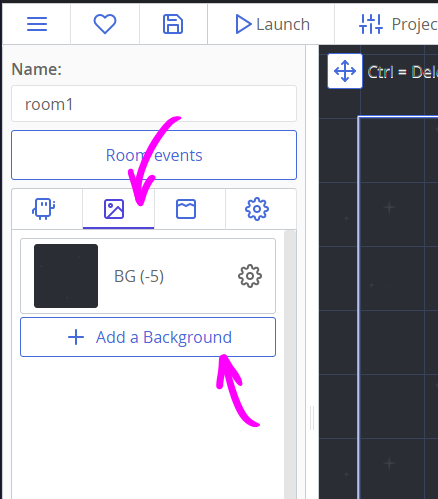
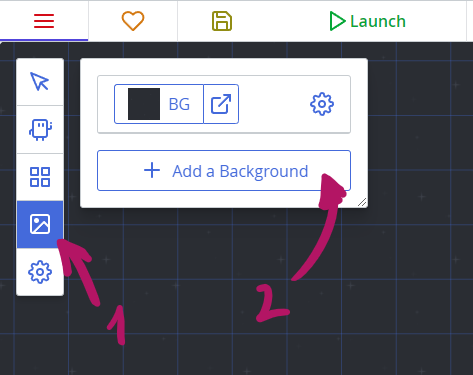
:zap: Update Space Shooter tutorial (new room editor)

diff --git a/docs/tut-making-shooter.md b/docs/tut-making-shooter.md
@@ -64,29 +64,21 @@ Let's place created templates somewhere on the map. To create this map, or Room,
 
 ![](./images/tutSpaceShooter_08.png)
 
-Here we will stop a bit to explain how to use the Room editor. Firstly, we can set up a Room's name and its viewport size.
+Here we will stop a bit to explain how to use the Room editor. The extended explanation can be found [here](/room-editor.html), but right now we will use just a few tools of it. Firstly, we should set up a Room's name and its viewport size in room's properties, by clicking the cog button in the left toolbar.
 
 In ct.js, Rooms are infinite and can pan in any direction. You can place objects inside and outside the viewport.
 
-Then we have Room events. It is a section that defines game logic specifically for this room. You can define UI or level scenario here.
+You can navigate the room by holding the mouse wheel and dragging your mouse. You can change zoom level by mouse wheel, or by changing zoom in the dropdown in the top toolbar. If you feel lost, press the "Reset viewport" menu item in the zoom dropdown to return to (0, 0) coordinates — or just press the `H` key.
 
-Under this button we have a panel with Copies and Backgrounds. We pick a Copy from the according tab and place it to the map by clicking on a large area on the right. To disable adding new copies, select a ghostly cat on the left. You can pan the editor's view by dragging your mouse on the left side when nothing is selected. You can change zoom level by using the zoom slider on the top, or by mouse wheel.
-
-If you feel lost, press the "To center" button to return to (0, 0) coordinates.
-
-You can set a grid by clicking on the button in the bottom right corner. Clicking it again will disable the grid.
-
-Lastly, you can move all the copies in the room at once by clicking a button with a "move" icon in the top left corner.
-
-For now, let's place a player's ship, a hostile one and a couple of asteroids.
+For now, let's place a player's ship, a hostile one and a couple of asteroids. Select the "Add copies" tool in the left toolbar, pick a template, and position a copy of it onto a level with a mouse click.
 
 ![](./images/tutSpaceShooter_10.png)
 
-Then add a background. Click the "Backgrounds" tab and press "Add", then select our `BG`. It will appear as a tiled texture in the main view.
+Then add a background. Click the "Backgrounds" tool on the left and press the "Add a background" button, then select our `BG`. It will appear as a tiled texture in the main view.
 
 ![](./images/tutSpaceShooter_09.png)
 
-Though backgrounds are always drawn before Copies of the same depth level (`0` by default), it is better to change their Depth level. Click on the cog on the left to the background's icon in the left column and input `-5` in the "Depth" field. By doing this, we tell the engine that this background is placed lower than other Copies and backgrounds. Depth represents a third coordinate axis that goes upwards, when X and Y go to the sides.
+Though backgrounds are always drawn before Copies of the same depth level (`0` by default), it is better to change their Depth level. Click on the cog on the right to the background's thumbnail and input `-5` in the "Depth" field. By doing this, we tell the engine that this background is placed lower than other Copies and backgrounds. Depth represents a third coordinate axis that goes upwards, when X and Y go to the sides.
 
 ![](./images/tutSpaceShooter_Depth.png)
 
